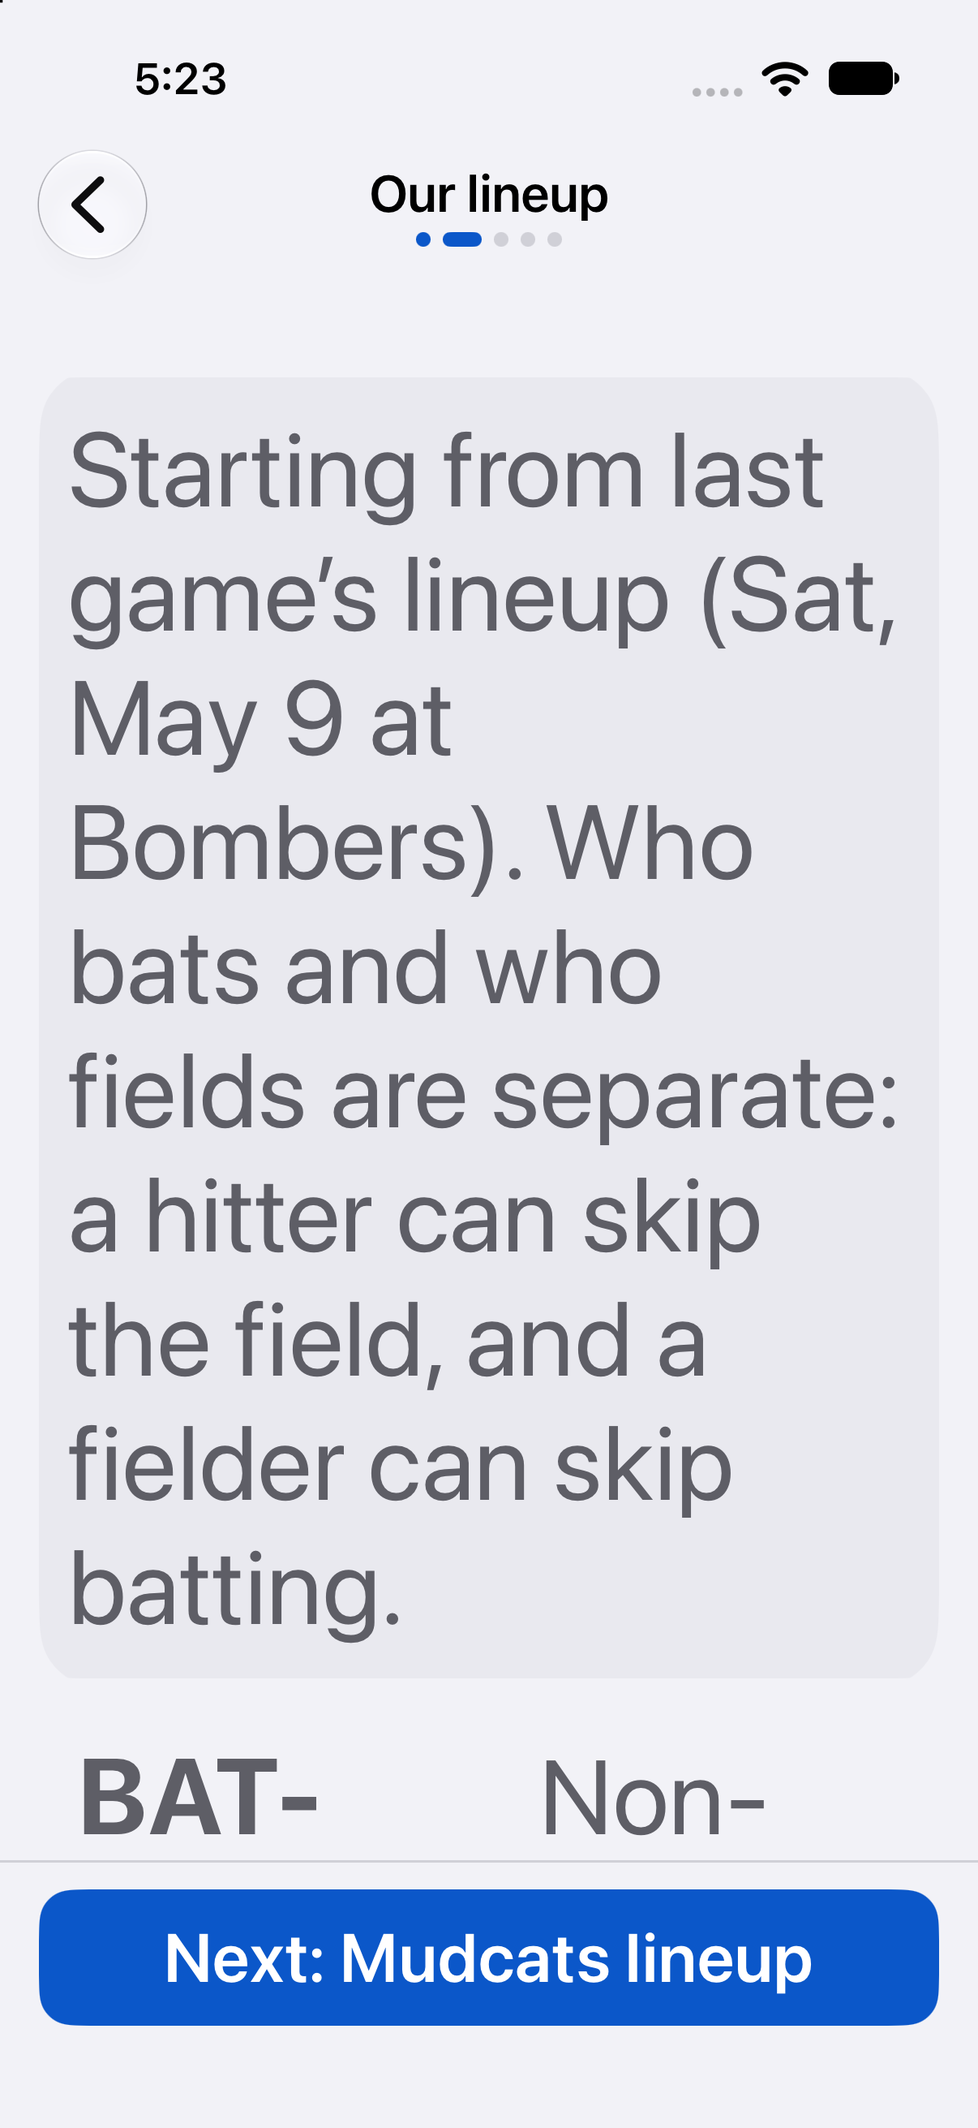
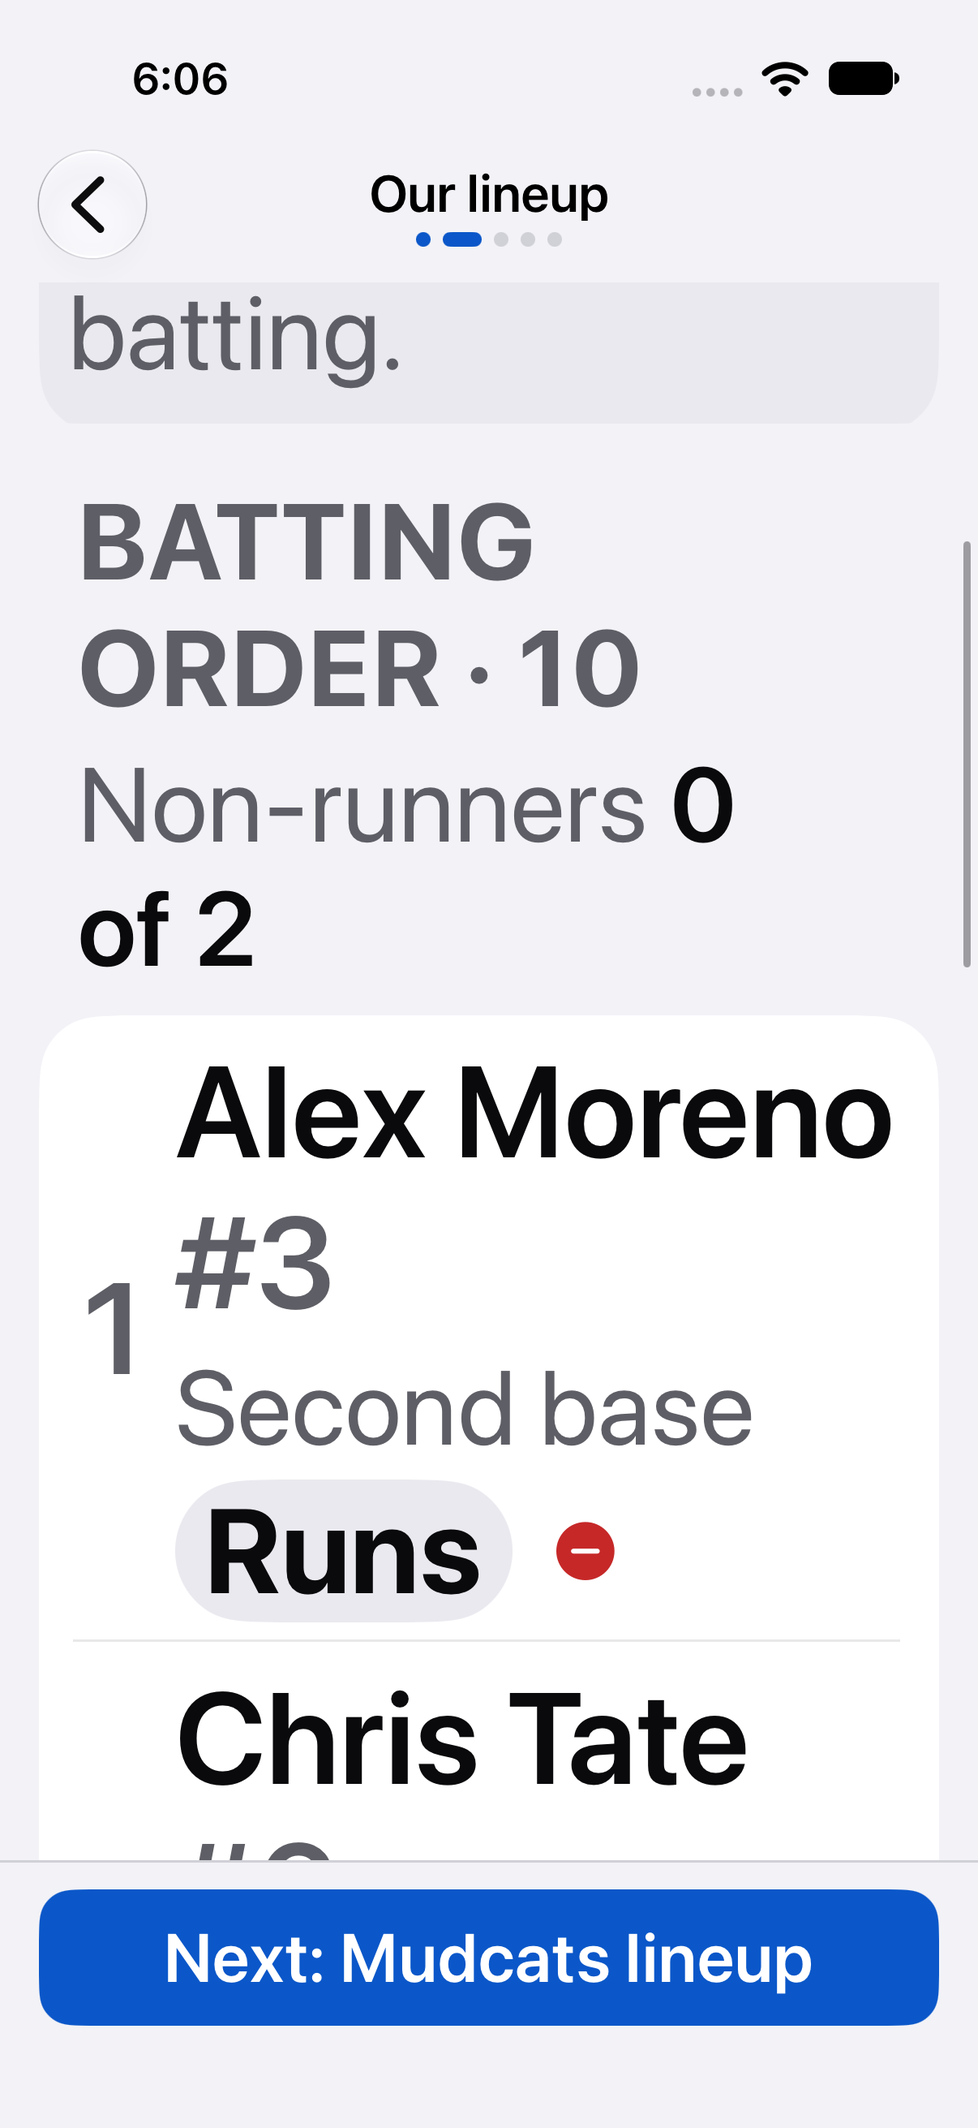
Fix the pregame review findings: even-inning holes, largest text, chip labels
A player takes only one even-inning turn; the review step notes any
position empty in even innings. Batting-order rows and section headers
stack at the largest text sizes. Chips say "bats only" for hitters who
don't field. The game step explains that a late first pitch moves the
time limit (rule 9.1 G). Three new tests for the reviewer's cases.

diff --git a/app/Packages/ScorebookUI/Sources/PregameScreens/OurLineupStep.swift b/app/Packages/ScorebookUI/Sources/PregameScreens/OurLineupStep.swift
@@ -24,6 +24,7 @@ struct OurLineupStep: View {
     @State private var openPosition: Position?
     /// A hitter waiting on the "past the league's limit" question.
     @State private var pendingNonRunner: PlayerID?
+    @Environment(\.dynamicTypeSize) private var typeSize
 
     private var lineup: OurLineup { draft.ours }
 
@@ -108,23 +109,39 @@ struct OurLineupStep: View {
     /// One hitter: spot, drag handle, name and number, where they field, the non-runner switch, minus.
     private func hitterRow(_ player: Player, spot: Int) -> some View {
         let isNonRunner = lineup.isNonRunner(player.id)
-        return HStack(spacing: Spacing.small) {
-            OrderNumber(spot: spot)
-            Grip()
-            VStack(alignment: .leading, spacing: 2) {
-                (Text(player.displayName) + Text(player.number.map { "  #\($0)" } ?? "").foregroundStyle(ScorebookColor.textSecondary))
-                    .font(ScorebookFont.headline)
-                Text(PregameWording.fieldingLine(for: player.id, in: lineup))
-                    .font(ScorebookFont.caption)
-                    .foregroundStyle(ScorebookColor.textSecondary)
-            }
-            .frame(maxWidth: .infinity, alignment: .leading)
+        // The name and where they field.
+        let name = VStack(alignment: .leading, spacing: 2) {
+            (Text(player.displayName) + Text(player.number.map { "  #\($0)" } ?? "").foregroundStyle(ScorebookColor.textSecondary))
+                .font(ScorebookFont.headline)
+            Text(PregameWording.fieldingLine(for: player.id, in: lineup))
+                .font(ScorebookFont.caption)
+                .foregroundStyle(ScorebookColor.textSecondary)
+        }
+        .frame(maxWidth: .infinity, alignment: .leading)
+        // The non-runner switch and the minus button.
+        let buttons = HStack(spacing: Spacing.small) {
             Button(isNonRunner ? "Non-runner" : "Runs") { tapNonRunner(player.id) }
                 .buttonStyle(ChipStyle(isOn: isNonRunner, onColor: ScorebookColor.sequenceBadge, onText: ScorebookColor.onStrike))
+                .fixedSize()
                 .accessibilityLabel(Text("Designated non-runner"))
                 .accessibilityValue(Text(isNonRunner ? "On" : "Off"))
             RemoveButton(label: "Take \(player.displayName) out of the batting order") {
                 draft.ours.removeFromOrder(player.id)
+            }
+        }
+        return HStack(spacing: Spacing.small) {
+            OrderNumber(spot: spot)
+            // The drag handle gives its room to the name at the largest text sizes; rows still drag.
+            if !typeSize.isAccessibilitySize { Grip() }
+            // At the largest text sizes the name gets its own line, with the buttons under it.
+            if typeSize.isAccessibilitySize {
+                VStack(alignment: .leading, spacing: Spacing.extraSmall) {
+                    name
+                    buttons
+                }
+            } else {
+                name
+                buttons
             }
         }
         .accessibilityElement(children: .contain)
@@ -141,9 +158,12 @@ struct OurLineupStep: View {
         }
     }
 
-    /// " ss" or " bench" after a name on a chip.
+    /// Where a player is now, after their name on a chip: " ss", " bats only", " 1b even" (a
+    /// turn in even innings only), or " bench" for someone who neither bats nor fields.
     private func chipPosition(_ id: PlayerID) -> String {
         if let position = lineup.position(of: id) { return " " + position.abbreviation }
+        if let position = lineup.alternatePosition(of: id) { return " \(position.abbreviation) even" }
+        if lineup.isBatting(id) { return " bats only" }
         return " bench"
     }
 
@@ -229,7 +249,11 @@ struct OurLineupStep: View {
                     Button("Nobody else") { draft.ours.setAlternate(nil, at: position) }
                         .buttonStyle(ChipStyle(isOn: lineup.alternates[position] == nil))
                     ForEach(lineup.roster.filter { $0.id != starter }) { player in
-                        Button(player.lastName) { draft.ours.setAlternate(player.id, at: position) }
+                        Button {
+                            draft.ours.setAlternate(player.id, at: position)
+                        } label: {
+                            Text("\(player.lastName)\(Text(chipPosition(player.id)).foregroundStyle(lineup.alternates[position] == player.id ? Color.white.opacity(0.8) : ScorebookColor.textSecondary))")
+                        }
                             .buttonStyle(ChipStyle(isOn: lineup.alternates[position] == player.id))
                             .accessibilityLabel(Text("\(player.displayName) plays \(position.name) in even innings"))
                     }

diff --git a/app/Packages/ScorebookUI/Tests/PregameScreensTests/PregameBuilderTests.swift b/app/Packages/ScorebookUI/Tests/PregameScreensTests/PregameBuilderTests.swift
@@ -211,6 +211,38 @@ struct AlternatingTests {
         #expect(lineup.alternates[.firstBase] == nil)
     }
 
+    @Test("Ford, who starts in left, takes first in even innings: left is empty then, and the review says so")
+    func starterTakesATurnElsewhere() {
+        var draft = PregameSamples.draft(against: "mudcats")
+        draft.ours.setAlternate("d6", at: .firstBase)
+        #expect(draft.ours.emptyPositions(inInning: 1).isEmpty)
+        #expect(draft.ours.emptyPositions(inInning: 2) == [.leftField])
+        #expect(draft.notes == ["Nobody plays left field in even innings."])
+        // Quinn taking left in even innings makes it a real flip-flop: nobody missing.
+        draft.ours.setAlternate("d4", at: .leftField)
+        #expect(draft.ours.emptyPositions(inInning: 2).isEmpty)
+        #expect(draft.notes.isEmpty)
+    }
+
+    @Test("Nash picked for even innings at a second position gives up the first one")
+    func oneEvenTurnEach() {
+        var lineup = OurLineup.fromLastGame(SampleSetups.mudcatsAtDiamondDogsAlternatingFirstBase.home, roster: roster)
+        lineup.setAlternate("d11", at: .rightField)
+        #expect(lineup.alternates == [.rightField: "d11"])
+        #expect(lineup.emptyPositions(inInning: 2).isEmpty)
+    }
+
+    @Test("Nash, who takes first in even innings, made our starting pitcher: the review notes nobody pitching then")
+    func turnTakerPitches() {
+        var draft = PregameDraft(input: PregameSamples.input)
+        draft.chooseOpponent(.saved("mudcats"))
+        draft.ours.setAlternate("d11", at: .firstBase)
+        draft.ours.assign("d11", to: .pitcher)
+        #expect(draft.ours.emptyPositions(inInning: 2) == [.pitcher])
+        #expect(draft.notes == ["Nobody plays pitcher in even innings."])
+        #expect(draft.missing == nil)   // a note, never a block
+    }
+
     @Test("Emptying a shared position ends the turns too")
     func emptied() {
         var lineup = OurLineup.fromLastGame(SampleSetups.mudcatsAtDiamondDogsAlternatingFirstBase.home, roster: roster)

diff --git a/app/Packages/ScorebookUI/Sources/PregameScreens/OurLineup.swift b/app/Packages/ScorebookUI/Sources/PregameScreens/OurLineup.swift
@@ -152,10 +152,25 @@ public struct OurLineup: Equatable, Sendable {
     }
 
     /// Shares a position by turns: the starter there plays odd innings and this player plays even
-    /// ones. `nil` stops sharing it.
+    /// ones. A player takes only one position in even innings, so any other even-inning turn they
+    /// had ends. `nil` stops sharing it.
     public mutating func setAlternate(_ id: PlayerID?, at position: Position) {
+        if let id {
+            for (other, second) in alternates where second == id && other != position {
+                alternates[other] = nil
+            }
+        }
         alternates[position] = id
         tidyAlternates()
+    }
+
+    /// Positions nobody plays in an inning once the turns are applied, in scorebook order. A
+    /// player who starts at one position and takes a turn at another leaves the first one empty
+    /// in even innings unless someone takes turns there too.
+    public func emptyPositions(inInning inning: Int) -> [Position] {
+        let team = gameTeam(for: Team(id: "lineup-check", name: ""))
+        let filled = Set(team.defense(forInning: inning, from: team.defense).map(\.position))
+        return Position.allCases.filter { !filled.contains($0) }
     }
 
     /// Drops any shared position that no longer makes sense: nobody starting there, or the same

diff --git a/app/Packages/ScorebookUI/Sources/PregameScreens/PregameParts.swift b/app/Packages/ScorebookUI/Sources/PregameScreens/PregameParts.swift
@@ -108,15 +108,23 @@ struct SectionHeader: View {
     var title: String
     var trailing: Text? = nil
 
+    @Environment(\.dynamicTypeSize) private var typeSize
+
     var body: some View {
-        HStack(alignment: .firstTextBaseline) {
+        // At the largest text sizes the right-hand words go on a second line, so nothing is cut off.
+        let layout = typeSize.isAccessibilitySize
+            ? AnyLayout(VStackLayout(alignment: .leading, spacing: Spacing.extraSmall))
+            : AnyLayout(HStackLayout(alignment: .firstTextBaseline))
+        layout {
             Text(title.uppercased())
                 .font(ScorebookFont.sectionLabel)
                 .tracking(0.6)
+                .fixedSize(horizontal: false, vertical: true)
                 .accessibilityAddTraits(.isHeader)
-            Spacer(minLength: Spacing.small)
+            if !typeSize.isAccessibilitySize { Spacer(minLength: Spacing.small) }
             if let trailing {
                 trailing.font(ScorebookFont.caption)
+                    .fixedSize(horizontal: false, vertical: true)
             }
         }
         .foregroundStyle(ScorebookColor.textSecondary)

diff --git a/app/Packages/ScorebookUI/Sources/PregameScreens/GameStep.swift b/app/Packages/ScorebookUI/Sources/PregameScreens/GameStep.swift
@@ -92,7 +92,7 @@ struct GameStep: View {
             } header: {
                 SectionHeader(title: "Game")
             } footer: {
-                Text("No new inning starts after the time limit. It starts three hours after the scheduled start and moves to three hours after the first pitch. The plate umpire keeps the official time, so it stays editable during the game.")
+                Text("No new inning starts after the time limit. It starts three hours after the scheduled start and moves to three hours after the first pitch. The plate umpire keeps the official time, so it stays editable during the game. The app keeps the time from the start to the limit, so a late first pitch moves the limit later by the same amount (league rule 9.1 G).")
                     .font(ScorebookFont.caption)
                     .foregroundStyle(ScorebookColor.textSecondary)
             }

diff --git a/app/Packages/ScorebookUI/Sources/PregameScreens/PregameBuilder.swift b/app/Packages/ScorebookUI/Sources/PregameScreens/PregameBuilder.swift
@@ -194,6 +194,10 @@ public struct PregameDraft: Equatable, Sendable {
         for position in ours.emptyPositions {
             notes.append("Nobody is playing \(position.name).")
         }
+        // Turns by inning can leave a position empty in even innings only.
+        for position in ours.emptyPositions(inInning: 2) where !ours.emptyPositions.contains(position) {
+            notes.append("Nobody plays \(position.name) in even innings.")
+        }
         if ours.nonRunners.count > nonRunnerLimit {
             notes.append("\(ours.nonRunners.count) designated non-runners; the league allows \(nonRunnerLimit).")
         }

diff --git a/plan/handoffs/screen-pregame.md b/plan/handoffs/screen-pregame.md
@@ -8,11 +8,11 @@
 
 Everything is in `app/Packages/ScorebookUI/Sources/PregameScreens/`. `PregameFlow` is the five-step sequence, matching the approved mockup’s `pg-` screens:
 
-1. **The game** (`GameStep.swift`): saved opponents as one-tap rows (“Saved roster: 12 players”, “numbers only”, “No saved roster yet”) and “New team” with a name field; date; home or away; innings (nine); scheduled start (9:00 AM, 15 minutes a tap); the time limit as a clock time (12:00 PM, 5 minutes a tap), which moves with the start. Added beyond the mockup: a “Championship game” switch (3 hours 15 minutes and the 15-run rule, from `GameRules.championship`).
-2. **Our lineup** (`OurLineupStep.swift`): three lists. The batting order drags into order (VoiceOver gets Move up and Move down), has a minus to take someone out, “Add to batting order” chips, and a Runs / Non-runner switch on each hitter with “Non-runners 1 of 2” in the header. A third non-runner asks “Jordan Webb would be non-runner number 3 … The league allows 2” and allows it on “Make them a non-runner anyway”; the count then shows “3 of 2” in red. The fielders are the nine positions; tapping one opens the whole roster as chips, and picking someone already fielding swaps the two; “Nobody” empties it. Under the chips, “Takes turns by inning” picks a second player for even innings, written to `GameTeam.fieldingRotations`. The bench lists everyone else with a “Bat” button.
+1. **The game** (`GameStep.swift`): saved opponents as one-tap rows (“Saved roster: 12 players”, “numbers only”, “No saved roster yet”) and “New team” with a name field; date; home or away; innings (nine); scheduled start (9:00 AM, 15 minutes a tap); the time limit as a clock time (12:00 PM, 5 minutes a tap), which moves with the start. The setup keeps the time from start to limit, so a late first pitch moves the limit later (rule 9.1 G); the footer says so. Added beyond the mockup: a “Championship game” switch (3 hours 15 minutes and the 15-run rule, from `GameRules.championship`).
+2. **Our lineup** (`OurLineupStep.swift`): three lists. The batting order drags into order (VoiceOver gets Move up and Move down), has a minus to take someone out, “Add to batting order” chips, and a Runs / Non-runner switch on each hitter with “Non-runners 1 of 2” in the header. A third non-runner asks “Jordan Webb would be non-runner number 3 … The league allows 2” and allows it on “Make them a non-runner anyway”; the count then shows “3 of 2” in red. The fielders are the nine positions; tapping one opens the whole roster as chips, and picking someone already fielding swaps the two; “Nobody” empties it. Under the chips, “Takes turns by inning” picks a second player for even innings, written to `GameTeam.fieldingRotations`; a player takes only one even-inning turn, so picking a second one ends the first. Chips show where each player is now (“Ford lf”, “Cole bats only”, “Nash 1b even”, “Voss bench”). At the largest text sizes each hitter’s name gets its own line with the Runs and minus buttons under it, and section headers wrap to two lines. The bench lists everyone else with a “Bat” button.
 3. **Their lineup** (`TheirLineupStep.swift`): names and numbers (their batting order from the last game against them, else their whole saved roster), numbers only (typed in batting order; a number matching the saved roster is that player, so names and stats carry over; a blank becomes “Batter 4”), or unknown (a count, nine by default, of “Batter 1” placeholders). The default way in follows what their saved roster holds.
 4. **Starting pitchers** (`PitchersStep.swift`): ours with whoever pitched most recently first (“Pitched last game, May 9 · throws right”, “Relieved …”, “Hasn’t pitched this season”); theirs with anyone who has pitched against us first, then their lineup and roster, “Not known yet” (a placeholder “Pitcher”), and “Someone new” (number, name, throwing hand). A chosen pitcher with no known throwing hand gets Right and Left buttons.
-5. **Review and play ball** (`ReviewStep.swift`): the game line, both lineups side by side (one above the other at accessibility text sizes) with positions, NR tags, fielders who don’t bat, shared positions and pitchers, and amber notes for anything odd (“Nobody is playing right field.”, “3 designated non-runners; the league allows 2.”). Notes never block. “Play ball” is blocked only with no opponent or an empty batting order.
+5. **Review and play ball** (`ReviewStep.swift`): the game line, both lineups side by side (one above the other at accessibility text sizes) with positions, NR tags, fielders who don’t bat, shared positions and pitchers, and amber notes for anything odd (“Nobody is playing right field.”, “Nobody plays left field in even innings.” when a starter takes a turn somewhere else, “3 designated non-runners; the league allows 2.”). Notes never block. “Play ball” is blocked only with no opponent or an empty batting order.
 
 ## How it talks to the rest
 
@@ -27,6 +27,10 @@ The logic is plain code with no screen: `OurLineup` (the three lists, swaps, sha
 - “Play ball” should open the batting screen and, when we take the field first, the defense check, as the mockup says.
 - `PregameFlow.sample(against:at:)` opens the flow at any step with the sample data, for a harness.
 
+## Review
+
+A fresh reviewer’s notes are in `feedback/ai/screen-pregame-review.md`. Findings 1 to 4 are fixed; finding 5 (usual position and role on `Player`) went to the lead builder.
+
 ## Vocabulary change request
 
 **`Player.usualPosition` and `Player.usualRole` (leads off, starts on the bench).** `plan/architecture.md` and the teams brief list them, and the brief asks the first game’s lineup to start from them, but `Model/People.swift` has neither. Workaround: `PregameInput.usualRoles`, a dictionary from player to a local `UsualRole` (position, leads off, starts on the bench), which the teams screens or the wiring can fill. Once `Player` has the fields, `OurLineup.fromRoster` should read them and `usualRoles` can go.
@@ -40,7 +44,7 @@ The logic is plain code with no screen: `OurLineup` (the three lists, swaps, sha
 
 ## Evidence
 
-- `xcodebuild -scheme ScorebookUI-Package -destination 'platform=iOS Simulator,name=iPhone 17' build` and `test` in `app/Packages/ScorebookUI`: build succeeded with no warnings; every test passes, including 33 new ones in `Tests/PregameScreensTests/PregameBuilderTests.swift` (8 suites): last game’s lineup carried over with a changed roster; the first game from usual roles; the three lists kept separate; dragging; swaps and emptied positions; the third non-runner asking and then allowed; first base taking turns, checked through `GameTeam.defense(forInning:from:)` for innings 1 to 3; Mudcats, Bombers and Riverhawks lineups; a new pitcher saved to their team and placeholders not saved; pitchers most recent first; clock times and championship rules; and the quickest setup.
+- `xcodebuild -scheme ScorebookUI-Package -destination 'platform=iOS Simulator,name=iPhone 17' build` and `test` in `app/Packages/ScorebookUI`: build succeeded with no warnings; every test passes, including 36 new ones in `Tests/PregameScreensTests/PregameBuilderTests.swift` (8 suites): last game’s lineup carried over with a changed roster; the first game from usual roles; the three lists kept separate; dragging; swaps and emptied positions; the third non-runner asking and then allowed; first base taking turns, checked through `GameTeam.defense(forInning:from:)` for innings 1 to 3; the reviewer’s three ways to lose a fielder in even innings (a starter taking a turn elsewhere, one player given two even-inning turns, a turn-taker made our pitcher); Mudcats, Bombers and Riverhawks lineups; a new pitcher saved to their team and placeholders not saved; pitchers most recent first; clock times and championship rules; and the quickest setup.
 - `Previews.swift`: every step against the full-roster Mudcats, the numbers-only Bombers and the unknown Riverhawks, our lineup before the first game, in light, dark and the largest text size.
 - Under a minute: in a throwaway harness app outside the repository (its own iPhone 17 simulator, since deleted), a UI test tapped Mudcats, Next four times and Play ball: 6 taps, 15.3 seconds from opening to the finished setup, starting from last game’s lineup. That run caught a bug (the review step showed a stale copy and “Pick an opponent first.”), fixed by passing it a binding. A second UI test declared three non-runners through the confirmation and set first base to take turns.
-- Screenshots in [screen-pregame/](screen-pregame/): `game`, `ours`, `ours-firstgame`, `ours-third-nonrunner-question`, `ours-first-base-turns`, `theirs-mudcats`, `theirs-bombers`, `theirs-riverhawks`, `pitchers`, `review`, dark versions (`review-dark`, `ours-dark`, `theirs-bombers-dark`), largest text (`game-big`, `ours-big`, `pitchers-big`), and `quick-result`, the setup the six-tap run handed back.
+- Screenshots in [screen-pregame/](screen-pregame/): `game`, `ours`, `ours-firstgame`, `ours-third-nonrunner-question`, `ours-first-base-turns`, `theirs-mudcats`, `theirs-bombers`, `theirs-riverhawks`, `pitchers`, `review`, dark versions (`review-dark`, `ours-dark`, `theirs-bombers-dark`), largest text (`game-big`, `ours-big` and `ours-big-2` showing the batting order, `pitchers-big`), and `quick-result`, the setup the six-tap run handed back.
